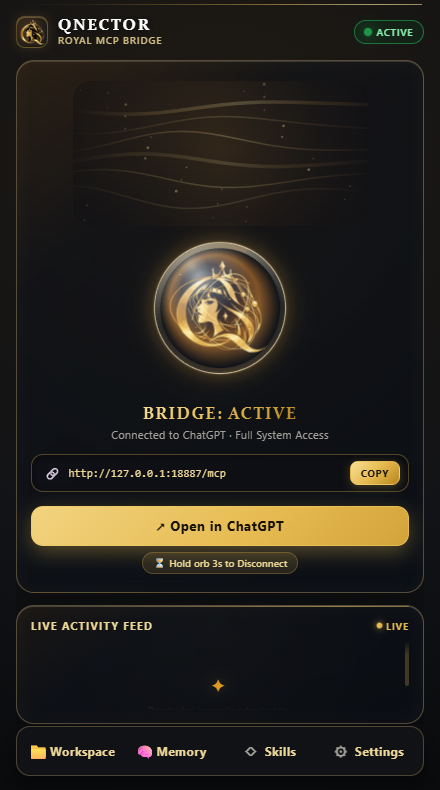
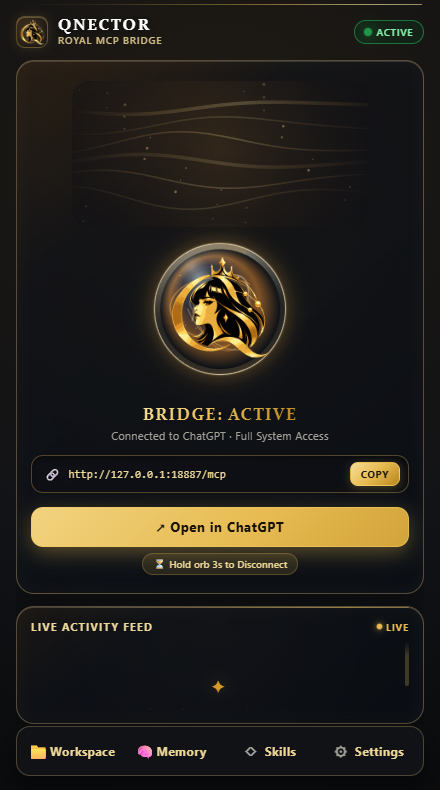
fix(motion): restore crisp Queen portrait compositing in native orb

diff --git a/apps/desktop/src/renderer/liquid-motion.css b/apps/desktop/src/renderer/liquid-motion.css
@@ -165,8 +165,10 @@
   display: block;
   position: absolute;
   z-index: 2;
-  width: 76%;
-  height: 76%;
+  /* The 256 px source stays within its 1:1 aspect ratio; a slightly larger
+     display size restores facial/hair detail without a separate icon tile. */
+  width: 84%;
+  height: 84%;
   top: 50%;
   left: 50%;
   transform: translate(-50%, -50%);
@@ -174,8 +176,11 @@
   background: none;
   border: 0;
   box-shadow: none;
-  mix-blend-mode: screen;
-  filter: drop-shadow(0 0 7px rgba(255, 213, 131, 0.22));
+  /* screen blend washed out opaque black hair against gold fluid arcs.
+     Normal alpha compositing retains the original clean black/gold edges. */
+  mix-blend-mode: normal;
+  image-rendering: auto;
+  filter: contrast(1.15) saturate(1.08);
   pointer-events: none;
   user-select: none;
 }
@@ -188,6 +193,9 @@
   pointer-events: none;
   background: radial-gradient(ellipse at 27% 16%, rgba(255, 254, 245, 0.26), transparent 44%);
   box-shadow: inset 0 1px 8px rgba(255, 242, 214, 0.10);
+  /* Keep the rim refractive without a frosted layer over Queen's face. */
+  -webkit-mask-image: radial-gradient(circle, transparent 0 38%, rgba(0, 0, 0, .25) 64%, #000 88%);
+  mask-image: radial-gradient(circle, transparent 0 38%, rgba(0, 0, 0, .25) 64%, #000 88%);
 }
 
 /* Important: while IDLE there must be no small zero-progress cap or track. */

diff --git a/apps/desktop/src/renderer/royal-motion-v2.test.ts b/apps/desktop/src/renderer/royal-motion-v2.test.ts
@@ -38,7 +38,11 @@ describe("Royal Liquid Glass V2.1 production trial", () => {
     expect(orb).toContain('className="queen-orb-portrait"');
     expect(orb).toContain('className="queen-orb-fluid"');
     expect(css).toContain(".queen-orb-portrait {");
-    expect(css).toContain("mix-blend-mode: screen");
+    // Do not wash out opaque dark Queen details with screen blending.
+    expect(css).toContain("mix-blend-mode: normal");
+    expect(css).not.toContain("mix-blend-mode: screen");
+    expect(css).toContain("filter: contrast(1.15) saturate(1.08)");
+    expect(css).toContain("-webkit-mask-image: radial-gradient");
     expect(css).toContain("background: none;");
     expect(css).toContain("border: 0;");
     expect(css).toContain("box-shadow: none;");

diff --git a/docs/design/royal-motion-trial-report.md b/docs/design/royal-motion-trial-report.md
@@ -53,6 +53,16 @@ Evidence: `royal-motion-baseline-fps.json`, `royal-motion-candidate-fps.json`, a
 - **Final full project suite on clean committed trial branch: 462/462 tests PASS across 100 test files (106.02 seconds).** Initial full run 460/462 found a correct package-evidence dirty-worktree guard and an outdated pre-existing Memory Center selector. After committing a clean tree and updating *only the test assertion* to current latest activity, linked session and freshness markers, targeted tests 10/10 and complete suite 462/462 passed. Memory behavior and package guards remain unchanged.
 - No installed QNECTOR binary, updater, live Bridge or tunnel is modified or exercised by these smoke tests.
 
+## Orb portrait clarity refinement (2026-10-16, source trial only)
+
+**Reported:** Queen portrait looked soft inside an otherwise approved Orb. The 256×256 transparent original is sharp; the problem was primarily compositing. `mix-blend-mode: screen` lifted the opaque dark hair/eye outlines to match the underlying bright fluid, the image was only 76% of the sphere, and the reflection overlaid the portrait.
+
+**Targeted fix:** retain the original unchanged PNG and the frameless transparent design, but render it with normal alpha compositing, slightly increase its size to 84%, add restrained static contrast/saturation, and mask glass reflection in the central portrait area while preserving refractive lighting at the rim. No new asset dependency or extra animation loop; no other menu or functionality changed.
+
+**Verified:** before/after captures from the actual Electron renderer at 440×790 are `royal-motion-orb-clarity-before.png`, `royal-motion-orb-clarity-after.png`, and enlarged side-by-side `royal-motion-orb-clarity-comparison.png`. Image loading 256px ×2, TypeScript/build, focused test 4/4, native Orb hold/visibility smoke (including computed-style clarity assertions) and lint PASS; Impeccable CSS detector yielded no findings. Measured native rAF cadence 165.01 FPS average, p95 6.20ms and no intervals over 17ms during one 4.2s pass (not a guaranteed minimum FPS under every load).
+
+**Delivery boundary:** updated only the isolated `feat/royal-motion-60fps-trial` source and synthetic Electron preview, not installed QNECTOR v0.4.57.
+
 ## Remaining checks before shipping
 
 - Repeated real frame **presentation** and GPU/CPU utilization, including gaming/Delta Force foreground coexistence, not just renderer rAF metrics.

diff --git a/animation-rework.md b/animation-rework.md
@@ -37,6 +37,12 @@
 - **Implementation model:** the source PNG already has a transparent outer background. Preserve its original proportions and colors. Render the Queen art as an image INSIDE the translucent orb shell (behind its glass highlight), rather than as a framed child of the transparent hold-interaction button. Use screen optical blending and restrained warm-gold lighting so the subject reads as part of the moving fluid.
 - **Functional behavior retained:** no hold ring/dot before pressing; 3-second hold and cancel; reconnect; all five navigation drawers, Motion Lab, search, Quality profiles and reduced motion. Header app icon may retain its small square brand badge: the no-frame requirement concerns the central Orb.
 - **Verified demo:** docs/design/qnector-liquid-glass-v2-1-qc.cjs. Checks transparent image loaded and moved into Orb shell, zero framed border/background/box-shadow, screen blend, and the existing Chrome functional suite; output screenshots qnector-liquid-v2-1-*.png. Demo success DOES NOT complete production AR tasks.
+## 0C. Native Queen Orb portrait clarity — isolated source refinement (2026-10-16)
+
+- **Latest approved Orb artwork treatment:** keep the actual transparent `queen-portrait.png` icon, but avoid `screen` blending over the moving light field: it erased the subject's opaque black hair/face edges and made the illustration look fuzzy. In the Electron trial, render the image with normal alpha compositing and measured static contrast, at 84% of Orb interior, with a central-clear/edge-only glass reflection mask. Preserve all lighting, frameless integration, animations, 3s hold interaction and native-VSync cadence.
+- **Screenshots from actual Electron renderer:** `docs/design/royal-motion-orb-clarity-before.png`, `royal-motion-orb-clarity-after.png`, `royal-motion-orb-clarity-comparison.png`; subject details are noticeably clearer after the change without a square backing.
+- **Implementation boundary:** only the existing Royal Motion source-trial branch was modified. No installed QNECTOR build updated, no release performed, and remaining 48-task-wide design acceptance is still pending. See `docs/design/royal-motion-trial-report.md` for quantitative QC and limitations.
+
 ## 1. Source-of-truth baseline
 
 | Item | Verified at audit (2026-10-16) |
